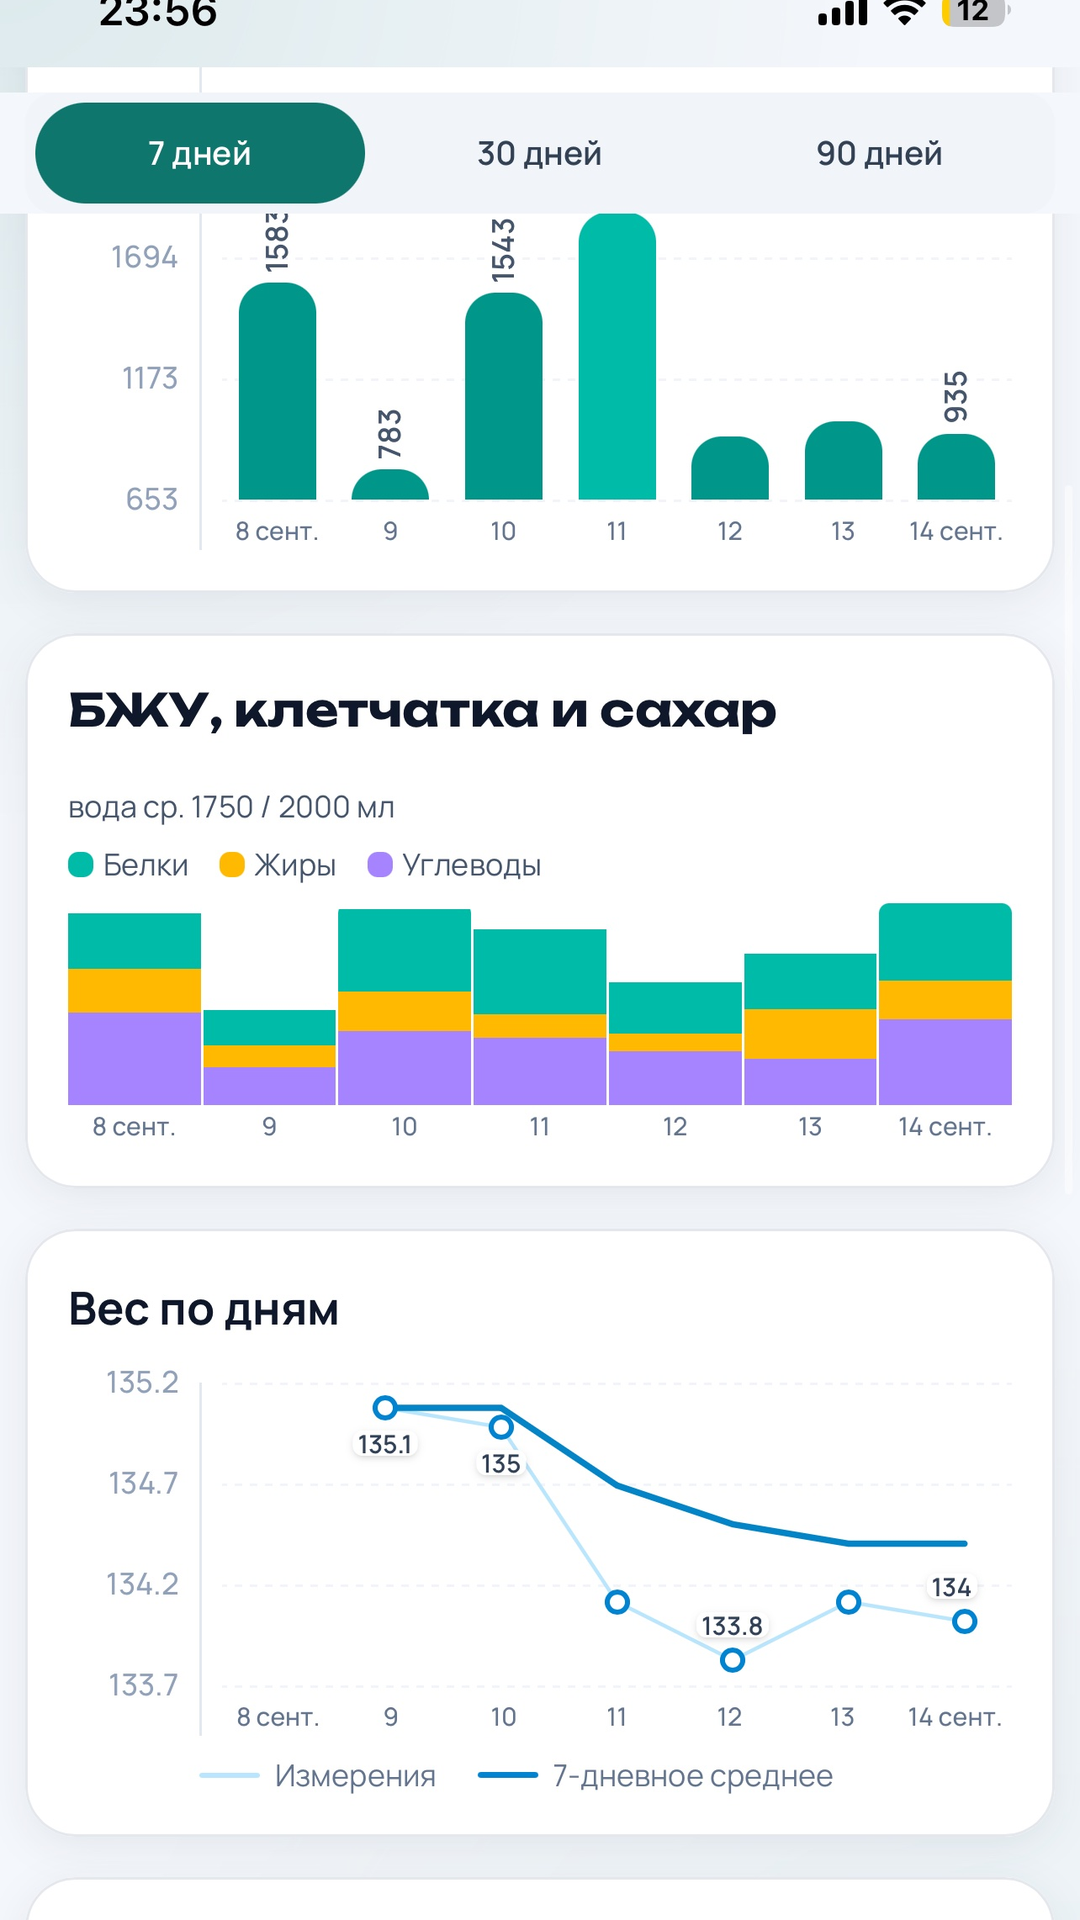
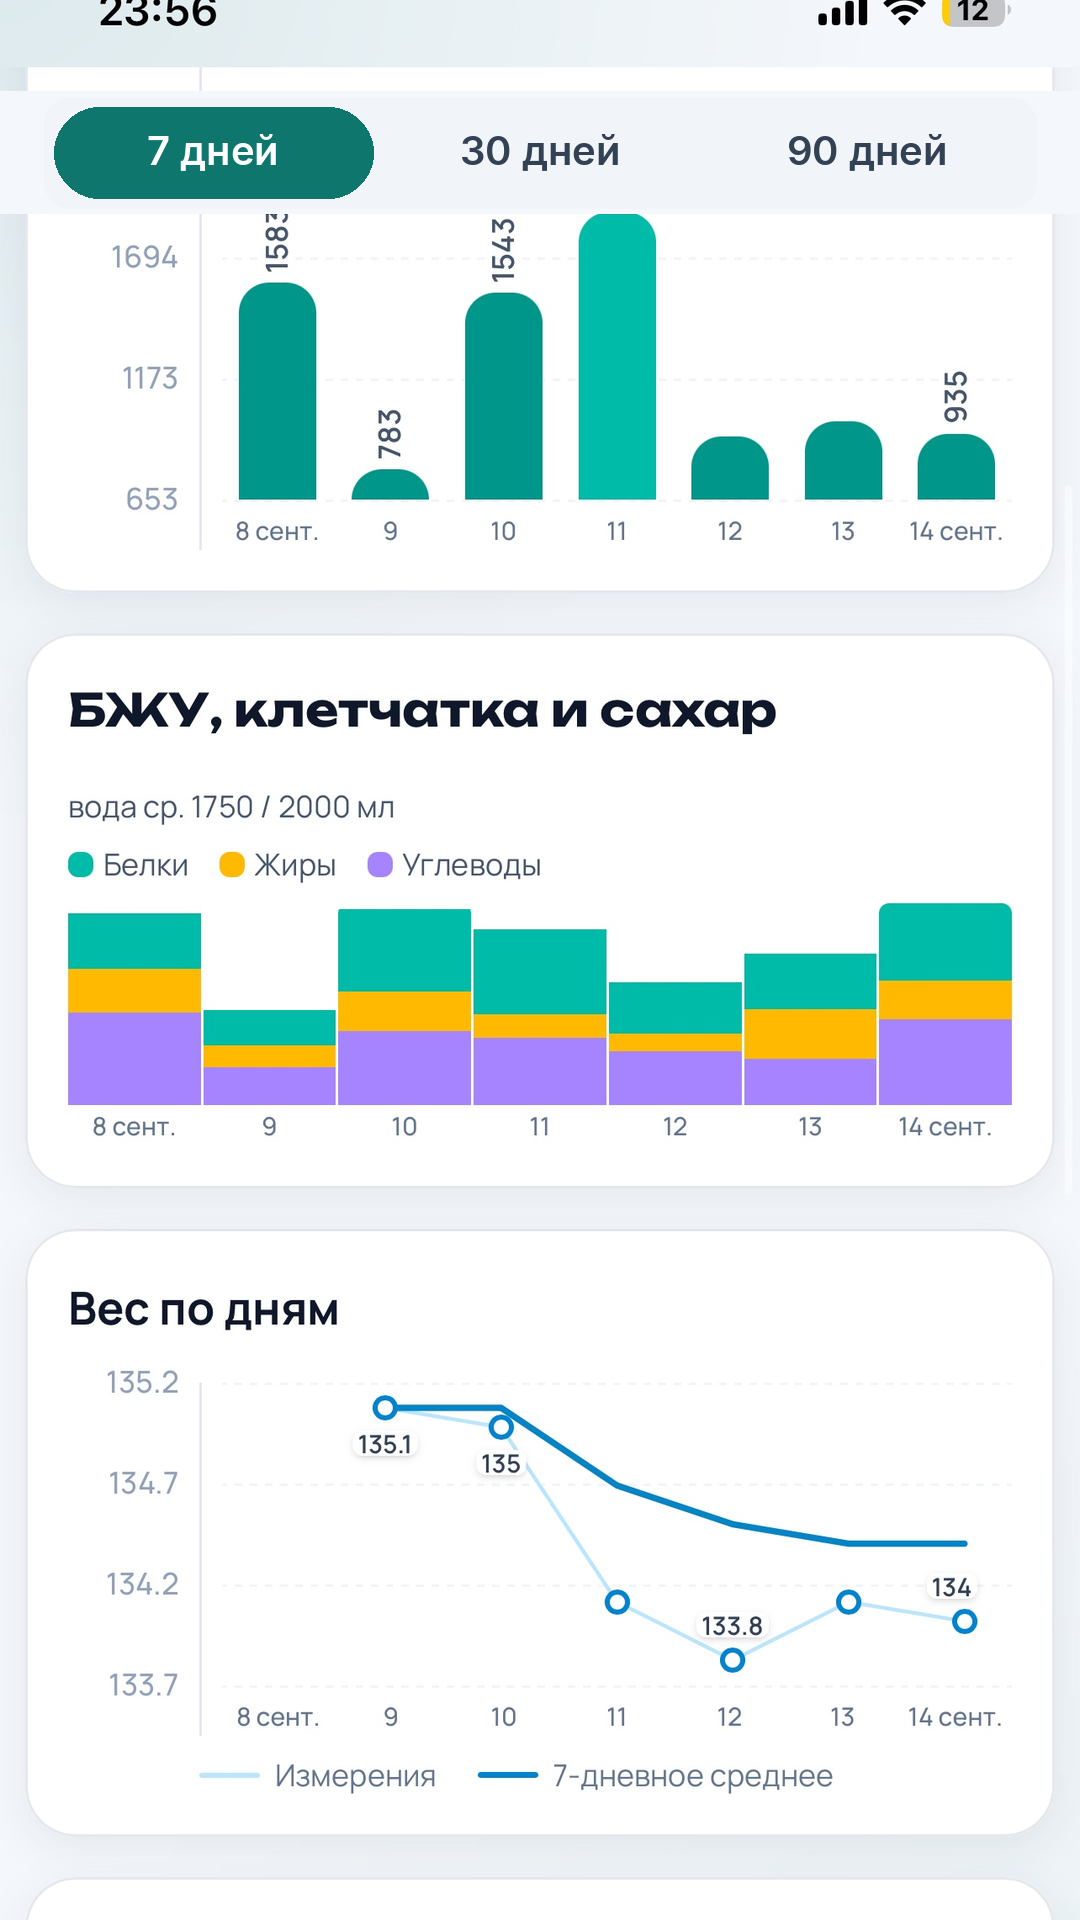
fix(rustore): repair 7/30/90 period strip on submit 03-stats
Cover crop clipped the active «7 дней» chip and made the period
segments look uneven. Redraw an equal three-segment control on the
store frame and archive the broken source.

diff --git a/rustore/screenshots/README.md b/rustore/screenshots/README.md
@@ -22,6 +22,9 @@
 Status bar / watermark версии обрезаны. Личный вес и жёсткий «недобор»
 на первом экране не показываем. Маркетинговый CTA убран — пятый кадр тоже продукт.
 
+На `03-stats` полоска периода **7 / 30 / 90** должна быть целиком в кадре
+(без клипа активного чипа) и с равными сегментами.
+
 ## Архив
 
 `archive/` — старые/сырые кадры. **Не загружать** в Консоль.
